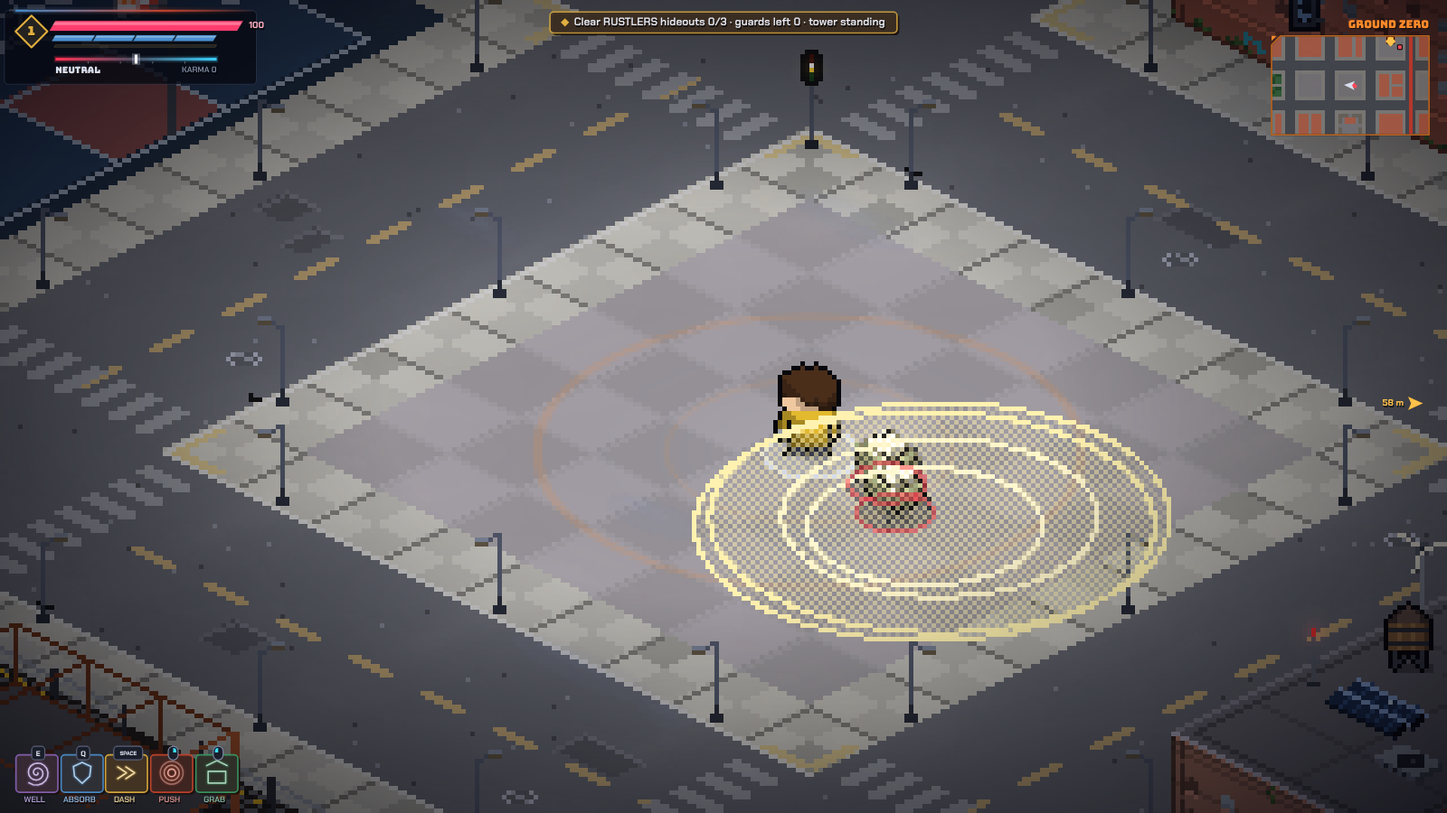
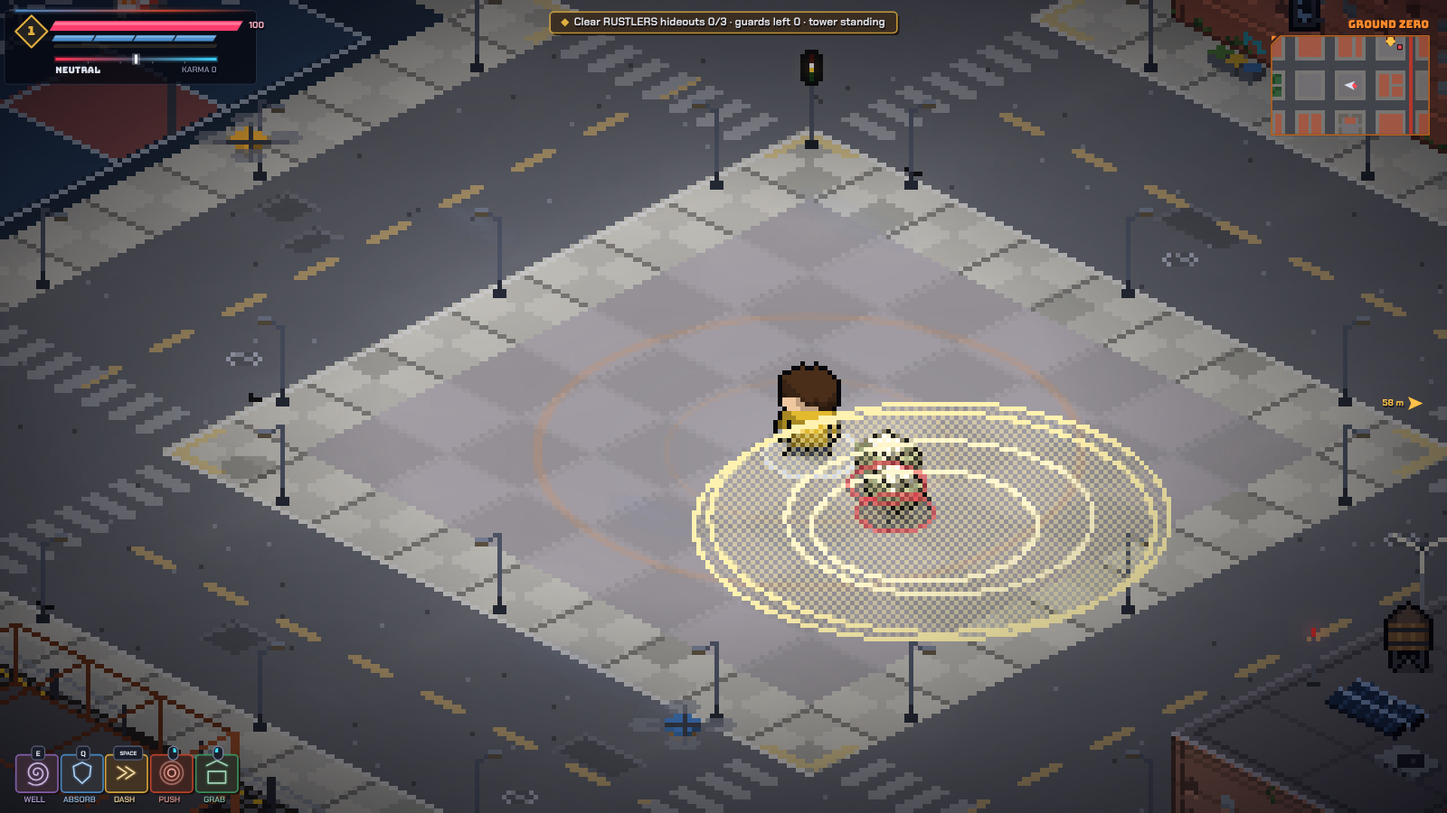
World: mite hives, scanner drones, heliostats
Mite hives in overgrown parks release mites while you are near.
Scanner drones patrol with a cone; if it fills on you, every enemy
nearby comes for you. Heliostats round the courts bounce sunlight into
a spot that tracks you and burns once hot, by day and at sunset only.
All drawn in the iso view.

Claude-Session: https://claude.ai/code/session_01TQrqJid8SEs5fJFtrpg3VS

diff --git a/dist/gravitation.html b/dist/gravitation.html
@@ -2399,9 +2399,12 @@ Object.assign(DEFS, {
   sentry:  { r: 10, m: 4, hp: 70, team: 'gang', static: 1, rest: .2, xp: 15 },
   loader:  { r: 16, m: 9, hp: 170, team: 'gang', rest: .15, xp: 35, speed: 66 },
   mite:    { r: 5, m: .5, hp: 9, team: 'gang', rest: .5, grab: 1, xp: 4, speed: 190, hover: 12 },
-  cell:    { r: 10, m: 3, hp: 20, team: 'prop', prop: 1, grab: 1, rest: .35, fric: .93, elec: 1 }
+  cell:    { r: 10, m: 3, hp: 20, team: 'prop', prop: 1, grab: 1, rest: .35, fric: .93, elec: 1 },
+  hive:    { r: 13, m: 6, hp: 90, team: 'gang', static: 1, rest: .2, xp: 25 },
+  scanner: { r: 8, m: 1, hp: 22, team: 'gang', rest: .4, grab: 1, xp: 10, speed: 70, hover: 30 },
+  mirror:  { r: 9, m: 4, hp: 60, team: 'gang', static: 1, rest: .2, xp: 10 }
 });
-const MACH = { sweeper: 1, zapper: 1, crawler: 1, sentry: 1, loader: 1, mite: 1 };
+const MACH = { sweeper: 1, zapper: 1, crawler: 1, sentry: 1, loader: 1, mite: 1, hive: 1, scanner: 1, mirror: 1 };
 const ZAP_COL = '#fff2b0', ZAP_HOT = '#ffffff';
 const zaps = [];          // lightning drawn for a moment: { pts, life, max }
 const hazards = [];       // downed power lines: { x0, y0, x1, y1, t, arc, warn }
@@ -2452,6 +2455,28 @@ function aiMachine(e, dt) {
     e.ang += angDiff(Math.atan2(P.y - e.y, P.x - e.x), e.ang) * Math.min(1, dt * 7);
     if (e.aimT > 0) { e.aimT -= dt; if (e.aimT <= 0) { for (let i = 0; i < 3; i++) later(i * .11, () => { if (!e.dead) shoot(e, e.ang + rnd(-.07, .07), { dmg: 5, speed: 340, col: '#ffd27a' }); }); e.cd = 1.8 + rnd(.6); } }
     else if (e.cd <= 0) e.aimT = .6;
+    return;
+  }
+  if (k === 'hive') {      // a mite hive: a squat solar-topped box that releases mites while you are near
+    const near = P && dist(P, e) < 300 && G.mode !== 'dead'; let n = 0; for (const o of act) if (!o.dead && o.kind === 'mite' && o.hiveOf === e.id) n++;
+    if (near && n < 6 && e.cd <= 0) { e.cd = 1.4; const a = rnd(TAU), m = spawnGang('mite', e.x + Math.cos(a) * 16, e.y + Math.sin(a) * 16, { home: { x: e.x, y: e.y }, terr: 320, hiveOf: e.id }); m.tgt = P; m.provT = 8; FX.sparks(m.x, m.y, 4, ZAP_COL, 90); }
+    return;
+  }
+  if (k === 'mirror') {    // heliostat: a mirror on a post that bounces sunlight into a burning spot that tracks you (not at night)
+    if (LIGHT.name === 'night' || !P || dist(P, e) > 300 || G.mode === 'dead' || !los(e, P)) { e.beam = null; e.ang += dt * .3; return; }
+    if (!e.beam) e.beam = { x: P.x, y: P.y, heat: 0 };
+    const bm = e.beam; bm.x += (P.x - bm.x) * Math.min(1, dt * 1.2); bm.y += (P.y - bm.y) * Math.min(1, dt * 1.2); e.ang = Math.atan2(bm.y - e.y, bm.x - e.x);
+    bm.heat = Math.min(1, bm.heat + dt * .6);
+    if (bm.heat >= 1) { bm.tick = (bm.tick || 0) - dt; if (bm.tick <= 0) { bm.tick = .3; for (const o of act) if (!o.dead && !o.static && !o.prop && o.team !== 'bot' && Math.hypot(o.x - bm.x, o.y - bm.y) < 20 + o.r) { hurt(o, 5, { by: 'gang' }); FX.embers(o.x, o.y, 2); } } }
+    return;
+  }
+  if (k === 'scanner') {   // corporate scanner: drifts on a patrol; when its cone finds you, everything nearby comes for you
+    e.ang += angDiff(e.sweep || 0, e.ang) * Math.min(1, dt * 3); e.sweepT = (e.sweepT || 0) - dt; if (e.sweepT <= 0) { e.sweepT = rnd(1.2, 2.4); e.sweep = rnd(TAU); }
+    wander(e, dt, e.speed * .6);
+    const d = P ? dist(P, e) : 1e9, inCone = d < 170 && Math.abs(angDiff(Math.atan2(P.y - e.y, P.x - e.x), e.ang)) < .45 && G.mode !== 'dead' && los(e, P);
+    e.spot = Math.max(0, Math.min(1, (e.spot || 0) + (inCone ? dt * 1.6 : -dt)));
+    if (inCone) e.ang += angDiff(Math.atan2(P.y - e.y, P.x - e.x), e.ang) * Math.min(1, dt * 6);
+    if (e.spot >= 1 && e.cd <= 0) { e.cd = 6; sfx('siren', e.x, e.y, .4); toast('Scanner alert', '#ff9a3a'); for (const o of act) if (!o.dead && o.team === 'gang' && !o.static && dist(o, e) < 420) { o.tgt = P; o.provT = 10; o.sight = Math.max(o.sight, 500); } }
     return;
   }
   const t = machTarget(e);
@@ -2527,6 +2552,12 @@ function populateMachines() {
     }
   }
   for (let d = 0; d < 3; d++) for (let i = 0; i < [3, 3, 2][d]; i++) { const p = randomInDistrict(d, t => t === T.WALK || t === T.PLAZA, 12); if (p) mk('cell', p.x, p.y, { ang: rnd(TAU) }); }
+  for (const b of blocks) {
+    const cx = b.x + b.w / 2, cy = b.y + b.h / 2;
+    if (b.kind === 'park' && (b.d === 1 || hash2(b.x, b.y) % 3 === 0)) { const p = findFree(cx + 50, cy + 50, 40, 14); if (p) spawnGang('hive', p.x, p.y, { home: p, terr: 300 }); }   // mite hives in overgrown parks
+    if (b.kind === 'court' || (b.kind === 'boss' && b.d === 2)) for (const [ox, oy] of [[-120, -120], [120, 120]]) { const p = findFree(cx + ox, cy + oy, 30, 10); if (p) spawnGang('mirror', p.x, p.y, { home: p, terr: 300 }); }   // heliostats round open courts
+  }
+  for (let d = 0; d < 3; d++) for (let i = 0; i < [2, 1, 4][d]; i++) { const p = randomInDistrict(d, t => t === T.ROAD || t === T.WALK, 10); if (p && dist(p, START) > 400) spawnGang('scanner', p.x, p.y, { home: p, terr: 600 }); }   // scanners patrol, most in the Tower
   // downed power lines: a lamp knocked over, its cable live on the ground (mostly in the Slums)
   const pool = lamps.filter(l => l.d === 1 || Math.random() < .25); for (let i = 0; i < 9 && pool.length; i++) {
     const l = pool.splice((Math.random() * pool.length) | 0, 1)[0], a = rnd(TAU), x1 = l.x + Math.cos(a) * 46, y1 = l.y + Math.sin(a) * 46;
@@ -8313,6 +8344,36 @@ function drawMachine(e) {
     iline(P3(6, 0, 21.5), P3(14, 0, 21.5), '#202228'); iline(P3(6, 0, 20.5), P3(14, 0, 20.5), '#3a3c44');   // barrel
     if (e.aimT > 0) { const a2 = isoXY(e.x + Math.cos(e.ang) * 14, e.y + Math.sin(e.ang) * 14, 0), L = isoXY(e.x + Math.cos(e.ang) * 130, e.y + Math.sin(e.ang) * 130, 0), m = P3(14, 0, 21); ctx.globalAlpha = .55; iline(m, [L[0], L[1] - (m[1] - a2[1]) * .2], '#ff4030'); ctx.globalAlpha = 1; }
     if (e.hp < e.maxhp) { const top = P3(0, 0, 31), bw = 12, bx = Math.round(top[0] - 6), by = Math.round(top[1]); ctx.fillStyle = 'rgba(0,0,0,.7)'; ctx.fillRect(bx - 1, by - 1, bw + 2, 3); ctx.fillStyle = '#ff3d5a'; ctx.fillRect(bx, by, Math.max(0, Math.round(bw * e.hp / e.maxhp)), 1); }
+    return;
+  }
+  if (k === 'hive') {      // mite hive: a hexagonal-ish stack of boxes, a solar lid, mites' doorways that glow
+    const P3 = mframe(e); mshadow(e, 13, 6.5);
+    pixBox(e, P3, 0, 22, 22, 0, 10, W('#5a5e4a'), W('#6a6e58'), (i, quad) => { for (let q = .15; q < .9; q += .25) quad(i, q, q + .1, 3, 7, '#0e0e0a'); quad(i, 0, 1, 0, 1.4, '#2a2c22'); });
+    pixBox(e, P3, 0, 16, 16, 10, 18, W('#6a6e58'), W('#7a7e66'), (i, quad) => { quad(i, .4, .6, 12, 16, Math.sin(t * 4 + e.id) > 0 ? ZAP_COL : '#3a3828'); }, tp => solarTop(tp));
+    for (let q = 0; q < 3; q++) { const a = t * 2 + q * 2.1 + e.id, c = P3(Math.cos(a) * 14, Math.sin(a) * 14, 20 + Math.sin(t * 5 + q) * 3); ipx(c[0], c[1], '#8a8e98'); }
+    if (e.hp < e.maxhp) { const top = P3(0, 0, 28), bw = 14, bx = Math.round(top[0] - 7), by = Math.round(top[1]); ctx.fillStyle = 'rgba(0,0,0,.7)'; ctx.fillRect(bx - 1, by - 1, bw + 2, 3); ctx.fillStyle = '#ff3d5a'; ctx.fillRect(bx, by, Math.max(0, Math.round(bw * e.hp / e.maxhp)), 1); }
+    return;
+  }
+  if (k === 'scanner') {   // scanner drone: a slim white body under one big rotor, a lens, and the scan cone on the ground
+    const hov = (e.def.hover || 30) + Math.sin(t * 4 + e.id) * 1.5, P3 = mframe(e, hov); mshadow(e, 6, 3);
+    const sp = e.spot || 0, cc = sp >= 1 ? '#ff4030' : sp > 0 ? '#ffb030' : '#e8e0c0';
+    { const n = 9, pts = [isoXY(e.x, e.y, 0)]; for (let q = 0; q <= n; q++) { const a = e.ang - .45 + q * .9 / n; pts.push(isoXY(e.x + Math.cos(a) * 170, e.y + Math.sin(a) * 170, 0)); } ctx.globalAlpha = .1 + sp * .12; ipoly(pts, cc); ctx.globalAlpha = .45; for (let q = 1; q < pts.length; q++) ipx(pts[q][0], pts[q][1], cc); ctx.globalAlpha = 1; }
+    const spin = Math.floor(t * 30) & 1, rc = P3(0, 0, 9); iellipse(rc[0], rc[1], 7, 3, spin ? 'rgba(200,204,214,.6)' : 'rgba(122,127,140,.6)'); iline(P3(0, 0, 6), rc, '#3a3e4a');
+    pixBox(e, P3, 0, 11, 7, 0, 6, W('#e8e8ee'), W('#f4f4f8'), (i, quad) => { if (i === 0) { quad(i, .3, .7, 1.5, 4.5, '#1a1e28'); quad(i, .42, .58, 2.5, 3.5, cc); } quad(i, 0, 1, 0, 1, W('#9aa0aa')); });
+    return;
+  }
+  if (k === 'mirror') {    // heliostat: a post with a tilting mirror; by day it throws a burning sun-spot that follows you
+    const P0 = propFrame({ x: e.x, y: e.y, ang: 0, z: 0 }), P3 = mframe(e); mshadow(e, 7, 3.5);
+    pixBox({ ang: 0 }, P0, 0, 6, 6, 0, 2, W('#3a3e4a'), W('#4a4e5a'));
+    iline(P0(0, 0, 2), P0(0, 0, 22), '#5a5e6a');
+    const q = [P3(-1, -8, 30), P3(-1, 8, 30), P3(3, 8, 18), P3(3, -8, 18)]; ipoly(q.map(p => [p[0] + 1, p[1] + 1]), '#0a0c12'); ipoly(q, fl ? '#fff' : '#b8d0e0'); iline(q[0], q[1], '#ffffff'); iline(q[3], q[2], '#7a90a0');
+    const bm = e.beam;
+    if (bm) {
+      const h = bm.heat, top = P3(1, 0, 24), g = isoXY(bm.x, bm.y, 0);
+      ctx.globalAlpha = .25 + h * .3; iline(top, g, '#fff6d0'); ctx.globalAlpha = 1;
+      ctx.globalAlpha = .25 + h * .35; gDither(bm.x, bm.y, 20, h >= 1 ? '#ffb040' : '#fff0b0'); ctx.globalAlpha = 1; gRing(bm.x, bm.y, 20 - (1 - h) * 8, h >= 1 ? '#ff8030' : '#fff0b0');
+      if (h >= 1) iglow(g[0], g[1], 18, '#ffb040', .5);
+    }
     return;
   }
   if (k === 'loader') {    // loader mech: two hydraulic legs, a caged cab, two claw arms, solar panels on its back

diff --git a/src/js/09c_machines.js b/src/js/09c_machines.js
@@ -10,9 +10,12 @@ Object.assign(DEFS, {
   sentry:  { r: 10, m: 4, hp: 70, team: 'gang', static: 1, rest: .2, xp: 15 },
   loader:  { r: 16, m: 9, hp: 170, team: 'gang', rest: .15, xp: 35, speed: 66 },
   mite:    { r: 5, m: .5, hp: 9, team: 'gang', rest: .5, grab: 1, xp: 4, speed: 190, hover: 12 },
-  cell:    { r: 10, m: 3, hp: 20, team: 'prop', prop: 1, grab: 1, rest: .35, fric: .93, elec: 1 }
+  cell:    { r: 10, m: 3, hp: 20, team: 'prop', prop: 1, grab: 1, rest: .35, fric: .93, elec: 1 },
+  hive:    { r: 13, m: 6, hp: 90, team: 'gang', static: 1, rest: .2, xp: 25 },
+  scanner: { r: 8, m: 1, hp: 22, team: 'gang', rest: .4, grab: 1, xp: 10, speed: 70, hover: 30 },
+  mirror:  { r: 9, m: 4, hp: 60, team: 'gang', static: 1, rest: .2, xp: 10 }
 });
-const MACH = { sweeper: 1, zapper: 1, crawler: 1, sentry: 1, loader: 1, mite: 1 };
+const MACH = { sweeper: 1, zapper: 1, crawler: 1, sentry: 1, loader: 1, mite: 1, hive: 1, scanner: 1, mirror: 1 };
 const ZAP_COL = '#fff2b0', ZAP_HOT = '#ffffff';
 const zaps = [];          // lightning drawn for a moment: { pts, life, max }
 const hazards = [];       // downed power lines: { x0, y0, x1, y1, t, arc, warn }
@@ -63,6 +66,28 @@ function aiMachine(e, dt) {
     e.ang += angDiff(Math.atan2(P.y - e.y, P.x - e.x), e.ang) * Math.min(1, dt * 7);
     if (e.aimT > 0) { e.aimT -= dt; if (e.aimT <= 0) { for (let i = 0; i < 3; i++) later(i * .11, () => { if (!e.dead) shoot(e, e.ang + rnd(-.07, .07), { dmg: 5, speed: 340, col: '#ffd27a' }); }); e.cd = 1.8 + rnd(.6); } }
     else if (e.cd <= 0) e.aimT = .6;
+    return;
+  }
+  if (k === 'hive') {      // a mite hive: a squat solar-topped box that releases mites while you are near
+    const near = P && dist(P, e) < 300 && G.mode !== 'dead'; let n = 0; for (const o of act) if (!o.dead && o.kind === 'mite' && o.hiveOf === e.id) n++;
+    if (near && n < 6 && e.cd <= 0) { e.cd = 1.4; const a = rnd(TAU), m = spawnGang('mite', e.x + Math.cos(a) * 16, e.y + Math.sin(a) * 16, { home: { x: e.x, y: e.y }, terr: 320, hiveOf: e.id }); m.tgt = P; m.provT = 8; FX.sparks(m.x, m.y, 4, ZAP_COL, 90); }
+    return;
+  }
+  if (k === 'mirror') {    // heliostat: a mirror on a post that bounces sunlight into a burning spot that tracks you (not at night)
+    if (LIGHT.name === 'night' || !P || dist(P, e) > 300 || G.mode === 'dead' || !los(e, P)) { e.beam = null; e.ang += dt * .3; return; }
+    if (!e.beam) e.beam = { x: P.x, y: P.y, heat: 0 };
+    const bm = e.beam; bm.x += (P.x - bm.x) * Math.min(1, dt * 1.2); bm.y += (P.y - bm.y) * Math.min(1, dt * 1.2); e.ang = Math.atan2(bm.y - e.y, bm.x - e.x);
+    bm.heat = Math.min(1, bm.heat + dt * .6);
+    if (bm.heat >= 1) { bm.tick = (bm.tick || 0) - dt; if (bm.tick <= 0) { bm.tick = .3; for (const o of act) if (!o.dead && !o.static && !o.prop && o.team !== 'bot' && Math.hypot(o.x - bm.x, o.y - bm.y) < 20 + o.r) { hurt(o, 5, { by: 'gang' }); FX.embers(o.x, o.y, 2); } } }
+    return;
+  }
+  if (k === 'scanner') {   // corporate scanner: drifts on a patrol; when its cone finds you, everything nearby comes for you
+    e.ang += angDiff(e.sweep || 0, e.ang) * Math.min(1, dt * 3); e.sweepT = (e.sweepT || 0) - dt; if (e.sweepT <= 0) { e.sweepT = rnd(1.2, 2.4); e.sweep = rnd(TAU); }
+    wander(e, dt, e.speed * .6);
+    const d = P ? dist(P, e) : 1e9, inCone = d < 170 && Math.abs(angDiff(Math.atan2(P.y - e.y, P.x - e.x), e.ang)) < .45 && G.mode !== 'dead' && los(e, P);
+    e.spot = Math.max(0, Math.min(1, (e.spot || 0) + (inCone ? dt * 1.6 : -dt)));
+    if (inCone) e.ang += angDiff(Math.atan2(P.y - e.y, P.x - e.x), e.ang) * Math.min(1, dt * 6);
+    if (e.spot >= 1 && e.cd <= 0) { e.cd = 6; sfx('siren', e.x, e.y, .4); toast('Scanner alert', '#ff9a3a'); for (const o of act) if (!o.dead && o.team === 'gang' && !o.static && dist(o, e) < 420) { o.tgt = P; o.provT = 10; o.sight = Math.max(o.sight, 500); } }
     return;
   }
   const t = machTarget(e);
@@ -138,6 +163,12 @@ function populateMachines() {
     }
   }
   for (let d = 0; d < 3; d++) for (let i = 0; i < [3, 3, 2][d]; i++) { const p = randomInDistrict(d, t => t === T.WALK || t === T.PLAZA, 12); if (p) mk('cell', p.x, p.y, { ang: rnd(TAU) }); }
+  for (const b of blocks) {
+    const cx = b.x + b.w / 2, cy = b.y + b.h / 2;
+    if (b.kind === 'park' && (b.d === 1 || hash2(b.x, b.y) % 3 === 0)) { const p = findFree(cx + 50, cy + 50, 40, 14); if (p) spawnGang('hive', p.x, p.y, { home: p, terr: 300 }); }   // mite hives in overgrown parks
+    if (b.kind === 'court' || (b.kind === 'boss' && b.d === 2)) for (const [ox, oy] of [[-120, -120], [120, 120]]) { const p = findFree(cx + ox, cy + oy, 30, 10); if (p) spawnGang('mirror', p.x, p.y, { home: p, terr: 300 }); }   // heliostats round open courts
+  }
+  for (let d = 0; d < 3; d++) for (let i = 0; i < [2, 1, 4][d]; i++) { const p = randomInDistrict(d, t => t === T.ROAD || t === T.WALK, 10); if (p && dist(p, START) > 400) spawnGang('scanner', p.x, p.y, { home: p, terr: 600 }); }   // scanners patrol, most in the Tower
   // downed power lines: a lamp knocked over, its cable live on the ground (mostly in the Slums)
   const pool = lamps.filter(l => l.d === 1 || Math.random() < .25); for (let i = 0; i < 9 && pool.length; i++) {
     const l = pool.splice((Math.random() * pool.length) | 0, 1)[0], a = rnd(TAU), x1 = l.x + Math.cos(a) * 46, y1 = l.y + Math.sin(a) * 46;

diff --git a/src/js/11k_machines.js b/src/js/11k_machines.js
@@ -68,6 +68,36 @@ function drawMachine(e) {
     if (e.hp < e.maxhp) { const top = P3(0, 0, 31), bw = 12, bx = Math.round(top[0] - 6), by = Math.round(top[1]); ctx.fillStyle = 'rgba(0,0,0,.7)'; ctx.fillRect(bx - 1, by - 1, bw + 2, 3); ctx.fillStyle = '#ff3d5a'; ctx.fillRect(bx, by, Math.max(0, Math.round(bw * e.hp / e.maxhp)), 1); }
     return;
   }
+  if (k === 'hive') {      // mite hive: a hexagonal-ish stack of boxes, a solar lid, mites' doorways that glow
+    const P3 = mframe(e); mshadow(e, 13, 6.5);
+    pixBox(e, P3, 0, 22, 22, 0, 10, W('#5a5e4a'), W('#6a6e58'), (i, quad) => { for (let q = .15; q < .9; q += .25) quad(i, q, q + .1, 3, 7, '#0e0e0a'); quad(i, 0, 1, 0, 1.4, '#2a2c22'); });
+    pixBox(e, P3, 0, 16, 16, 10, 18, W('#6a6e58'), W('#7a7e66'), (i, quad) => { quad(i, .4, .6, 12, 16, Math.sin(t * 4 + e.id) > 0 ? ZAP_COL : '#3a3828'); }, tp => solarTop(tp));
+    for (let q = 0; q < 3; q++) { const a = t * 2 + q * 2.1 + e.id, c = P3(Math.cos(a) * 14, Math.sin(a) * 14, 20 + Math.sin(t * 5 + q) * 3); ipx(c[0], c[1], '#8a8e98'); }
+    if (e.hp < e.maxhp) { const top = P3(0, 0, 28), bw = 14, bx = Math.round(top[0] - 7), by = Math.round(top[1]); ctx.fillStyle = 'rgba(0,0,0,.7)'; ctx.fillRect(bx - 1, by - 1, bw + 2, 3); ctx.fillStyle = '#ff3d5a'; ctx.fillRect(bx, by, Math.max(0, Math.round(bw * e.hp / e.maxhp)), 1); }
+    return;
+  }
+  if (k === 'scanner') {   // scanner drone: a slim white body under one big rotor, a lens, and the scan cone on the ground
+    const hov = (e.def.hover || 30) + Math.sin(t * 4 + e.id) * 1.5, P3 = mframe(e, hov); mshadow(e, 6, 3);
+    const sp = e.spot || 0, cc = sp >= 1 ? '#ff4030' : sp > 0 ? '#ffb030' : '#e8e0c0';
+    { const n = 9, pts = [isoXY(e.x, e.y, 0)]; for (let q = 0; q <= n; q++) { const a = e.ang - .45 + q * .9 / n; pts.push(isoXY(e.x + Math.cos(a) * 170, e.y + Math.sin(a) * 170, 0)); } ctx.globalAlpha = .1 + sp * .12; ipoly(pts, cc); ctx.globalAlpha = .45; for (let q = 1; q < pts.length; q++) ipx(pts[q][0], pts[q][1], cc); ctx.globalAlpha = 1; }
+    const spin = Math.floor(t * 30) & 1, rc = P3(0, 0, 9); iellipse(rc[0], rc[1], 7, 3, spin ? 'rgba(200,204,214,.6)' : 'rgba(122,127,140,.6)'); iline(P3(0, 0, 6), rc, '#3a3e4a');
+    pixBox(e, P3, 0, 11, 7, 0, 6, W('#e8e8ee'), W('#f4f4f8'), (i, quad) => { if (i === 0) { quad(i, .3, .7, 1.5, 4.5, '#1a1e28'); quad(i, .42, .58, 2.5, 3.5, cc); } quad(i, 0, 1, 0, 1, W('#9aa0aa')); });
+    return;
+  }
+  if (k === 'mirror') {    // heliostat: a post with a tilting mirror; by day it throws a burning sun-spot that follows you
+    const P0 = propFrame({ x: e.x, y: e.y, ang: 0, z: 0 }), P3 = mframe(e); mshadow(e, 7, 3.5);
+    pixBox({ ang: 0 }, P0, 0, 6, 6, 0, 2, W('#3a3e4a'), W('#4a4e5a'));
+    iline(P0(0, 0, 2), P0(0, 0, 22), '#5a5e6a');
+    const q = [P3(-1, -8, 30), P3(-1, 8, 30), P3(3, 8, 18), P3(3, -8, 18)]; ipoly(q.map(p => [p[0] + 1, p[1] + 1]), '#0a0c12'); ipoly(q, fl ? '#fff' : '#b8d0e0'); iline(q[0], q[1], '#ffffff'); iline(q[3], q[2], '#7a90a0');
+    const bm = e.beam;
+    if (bm) {
+      const h = bm.heat, top = P3(1, 0, 24), g = isoXY(bm.x, bm.y, 0);
+      ctx.globalAlpha = .25 + h * .3; iline(top, g, '#fff6d0'); ctx.globalAlpha = 1;
+      ctx.globalAlpha = .25 + h * .35; gDither(bm.x, bm.y, 20, h >= 1 ? '#ffb040' : '#fff0b0'); ctx.globalAlpha = 1; gRing(bm.x, bm.y, 20 - (1 - h) * 8, h >= 1 ? '#ff8030' : '#fff0b0');
+      if (h >= 1) iglow(g[0], g[1], 18, '#ffb040', .5);
+    }
+    return;
+  }
   if (k === 'loader') {    // loader mech: two hydraulic legs, a caged cab, two claw arms, solar panels on its back
     const g = Math.floor(e.walk * 2) & 1, raise = e.state === 'slamWind' ? 6 : 0, lean = e.state === 'chargeWind' || e.state === 'charging' ? 3 : 0, P3 = mframe(e); mshadow(e, 14, 7);
     for (const [ly, ph] of [[-6, 0], [6, 1]]) { const up = (ph ^ g) ? 3 : 0; pixBox(e, P3, up * .6, 6, 5, 0, 2, W('#2a2d36'), W('#3a3e4a')); pixBox(e, P3, 0, 4, 4, 2 + up, 18, W('#5a5e6a'), W('#6a6e7a')); }

diff --git a/test/machines.js b/test/machines.js
@@ -9,7 +9,7 @@ const { chromium } = require('playwright'); const path = require('path'); const 
   await p.evaluate(() => { KC.start(); KC.skip(); G.seen = new Proxy({}, { get: () => 1, set: () => true }); KC.time('day'); KC.weather('dry'); SETTINGS.hud = .7; });
   const counts = await p.evaluate(() => { const c = {}; for (const e of ents) if (!e.dead && (MACH[e.kind] || e.kind === 'cell')) c[e.kind] = (c[e.kind] || 0) + 1; c.powerLines = hazards.length; return c; });
   console.log('in the world:', JSON.stringify(counts));
-  ok('every machine is placed in the world', ['sweeper', 'zapper', 'crawler', 'sentry', 'loader', 'cell'].every(k => counts[k] > 0) && counts.powerLines > 0);
+  ok('every machine is placed in the world', ['sweeper', 'zapper', 'crawler', 'sentry', 'loader', 'cell', 'hive', 'scanner', 'mirror'].every(k => counts[k] > 0) && counts.powerLines > 0);
   const stage = async (setup, ms, name) => { await p.evaluate(setup); await p.waitForTimeout(ms); await p.evaluate(() => { G.hint = null; G.toasts.length = 0; }); await p.screenshot({ path: ROOT + '/screenshots/machines_' + name + '.png' }); };
   const clear = `const x = 1008, y = 1392; for (const e of ents) if (e !== P && !e.dead && e.kind !== 'hideout' && e.kind !== 'tower' && Math.hypot(e.x - x, e.y - y) < 600) e.dead = true; KC.tp(x, y); P.invT = 1e9; P.hp = S.maxHp; P.energy = S.maxEn;`;
   // line-up: everything standing still, facing the camera
@@ -22,6 +22,9 @@ const { chromium } = require('playwright'); const path = require('path'); const 
   await stage(new Function(clear + `spawnGang('sentry', P.x + 120, P.y - 40, { home: { x: P.x, y: P.y }, terr: 400 });`), 1400, 'sentry');
   await stage(new Function(clear + `spawnGang('loader', P.x + 90, P.y + 10, { home: { x: P.x, y: P.y }, terr: 400 }); for (let i = 0; i < 4; i++) spawnGang('mite', P.x - 80 + i * 10, P.y - 60, { home: { x: P.x, y: P.y }, terr: 400 });`), 1500, 'loader_mites');
   await stage(new Function(clear + `for (let i = 0; i < 3; i++) mk('cell', P.x + 80 + i * 22, P.y + 10 * i); const g = spawnGang('grunt', P.x + 120, P.y + 40); g.cd = 99; for (const e of ents) if (e.kind === 'cell' && !e.dead && Math.hypot(e.x - P.x, e.y - P.y) < 200) { KC.hurt(e, 99, { by: 'player' }); break; }`), 150, 'battery_chain');
+  await stage(new Function(clear + `spawnGang('hive', P.x + 110, P.y - 20, { home: { x: P.x + 110, y: P.y - 20 }, terr: 400 });`), 3500, 'hive');
+  await stage(new Function(clear + `const s = spawnGang('scanner', P.x + 90, P.y - 40, { home: { x: P.x, y: P.y }, terr: 600 }); s.sweep = Math.atan2(40, -90); s.ang = s.sweep; s.sweepT = 9; for (let i = 0; i < 2; i++) spawnGang('grunt', P.x + 200, P.y + 100 + i * 20, { home: { x: P.x + 200, y: P.y + 100 }, terr: 50 }).cd = 9;`), 900, 'scanner');
+  await stage(new Function(clear + `KC.time('day'); spawnGang('mirror', P.x + 120, P.y - 60, { home: { x: P.x, y: P.y }, terr: 400 }); spawnGang('mirror', P.x - 60, P.y + 120, { home: { x: P.x, y: P.y }, terr: 400 });`), 2200, 'mirror');
   const h = await p.evaluate(() => { const h = hazards[0]; KC.tp(h.x1 + 30, h.y1 + 30); P.invT = 1e9; return { x: h.x1, y: h.y1 }; });
   await p.waitForTimeout(1200); await p.evaluate(() => { const h = hazards[0]; h.arc = .9; h.t = 0; G.hint = null; G.toasts.length = 0; }); await p.waitForTimeout(250); await p.screenshot({ path: ROOT + '/screenshots/machines_power_line.png' });
   await stage(new Function(`KC.time('sunset'); const s = ents.find(e => e.kind === 'sweeper' && !e.dead); KC.tp(s.x + 40, s.y + 30); P.invT = 1e9;`), 1500, 'sweeper_street');

diff --git a/HANDOFF.md b/HANDOFF.md
@@ -33,7 +33,7 @@ A prototype of a top-down superhero/supervillain game inspired by inFamous, GTA 
 - **Frame:** fixed 16:9 and letterboxed.
 - **Setting:** an ordinary rainy city (the user's words: "Grand Theft Auto meets Hey Arnold", New York brick and brownstone, Seattle weather). **The old neon cyberpunk night is gone on purpose: the user found it generic. Do not bring neon back.**
 - **The world's flavour (the user's own description, 2026-11-27; keep to it):** a down-to-earth near future, "solarpunk mixed with dystopian capitalism". Capitalism lasted long enough to make technology powerful enough to fill some of its own holes: people build their own software and hardware with AI help, wire up their own solar panels and grow their own food, and survive what was a slow apocalypse of sorts, yet the city is still a pretty cool place to live. Keep the ordinary modern city look; tech can be strange and inventive (lasers, AI, drones, e.g. solar-panelled drones that shoot electricity), but **never pink/purple/blue neon cyberpunk**. The red laser barricade is fine. Good source of new enemies and environmental hazards.
-- **Machines and hazards (09c_machines.js, drawn in 11k_machines.js), first batch made on the user's free-roam brief; awaiting their picks:** solar street sweepers (team `bot`, harmless, drop energy), spark drones (`zapper`, hover over car parks, telegraphed lightning bolt), repo crawlers (`crawler`, run at you and burst), sentry posts (`sentry`, static turret by each hideout gate, does not hold the gate), loader mechs (`loader`, heavy walker outside each yard, fights like a brute), mites (`mite`, tiny swarm drones; not placed in the world yet), battery banks (`cell`, throwable, burst with electricity and chain), downed power lines (`hazards`, arc on a cycle, hurt anything but civilians). Electricity is pale yellow-white. `node test/machines.js`. **Every new object must be drawn in the same isometric projection as the props (oriented `pixBox` boxes via `propFrame`, or `isoXY` shapes), never as a flat front-on sprite.** The user rejected the first, flat version of these machines for exactly that ("we went through all of this before").
+- **Machines and hazards (09c_machines.js, drawn in 11k_machines.js), first batch made on the user's free-roam brief; awaiting their picks:** solar street sweepers (team `bot`, harmless, drop energy), spark drones (`zapper`, hover over car parks, telegraphed lightning bolt), repo crawlers (`crawler`, run at you and burst), sentry posts (`sentry`, static turret by each hideout gate, does not hold the gate), loader mechs (`loader`, heavy walker outside each yard, fights like a brute), mites (`mite`, tiny swarm drones; not placed in the world yet), battery banks (`cell`, throwable, burst with electricity and chain), downed power lines (`hazards`, arc on a cycle, hurt anything but civilians). Batch 2: mite hives (`hive`, static, in overgrown parks, release up to 6 mites while you are near), scanner drones (`scanner`, patrol; when the cone fills on you every gang member and machine within 420 px comes for you), heliostats (`mirror`, static, round courts and the Tower plaza; by day and at sunset they track you with a sun-spot that burns once it heats up; idle at night). Street furniture and delivery drones: `11l_street_life.js`. Electricity is pale yellow-white. `node test/machines.js`. **Every new object must be drawn in the same isometric projection as the props (oriented `pixBox` boxes via `propFrame`, or `isoXY` shapes), never as a flat front-on sprite.** The user rejected the first, flat version of these machines for exactly that ("we went through all of this before").
 - **Signed off by the user (2026-11-27):** current enemies are fine as placeholders for now; the music, sound effects and soundtrack are fine.
 - **Times of day** (`04b_times.js`): `sunset`, `night` and `day`, each ONLY colours and light (the user was explicit: no sprite or drawing changes). `applyTime(name)` repaints district palettes and each building's wall, roof and window colours, sets the light levels in `LIGHT` (glow, light pools, lamps lit, wash, how green, how light the water) and clears the cached pictures. The user wants to keep all three and use them per story section later. For now it is a setting (Settings → Display → Time of day, `SETTINGS.time`, default sunset, my pick) and `KC.time(name)`. Signs keep their shapes but are painted shop colours (`NEON_GOOD`/`NEON_EVIL` in 04_world.js keep their old names); roof trims are off. `node test/times.js`.
 - **Weather** (`WEATHER` in 04b_times.js): the user wants a rainy city where rain is real weather, not decoration: showers come and go by themselves at any time of day (showers 70–160 s, dry spells 50–110 s, wet about 60% of the time, 6 s fade). Rain streaks, splashes, the rain sound, an overcast wash by day and **umbrellas** all follow `WEATHER.rain`; the user asked for extra care that nobody carries an umbrella when it is dry. `setWeather('rain'|'dry'|'auto')` / `KC.weather(...)` for the story and tests.
